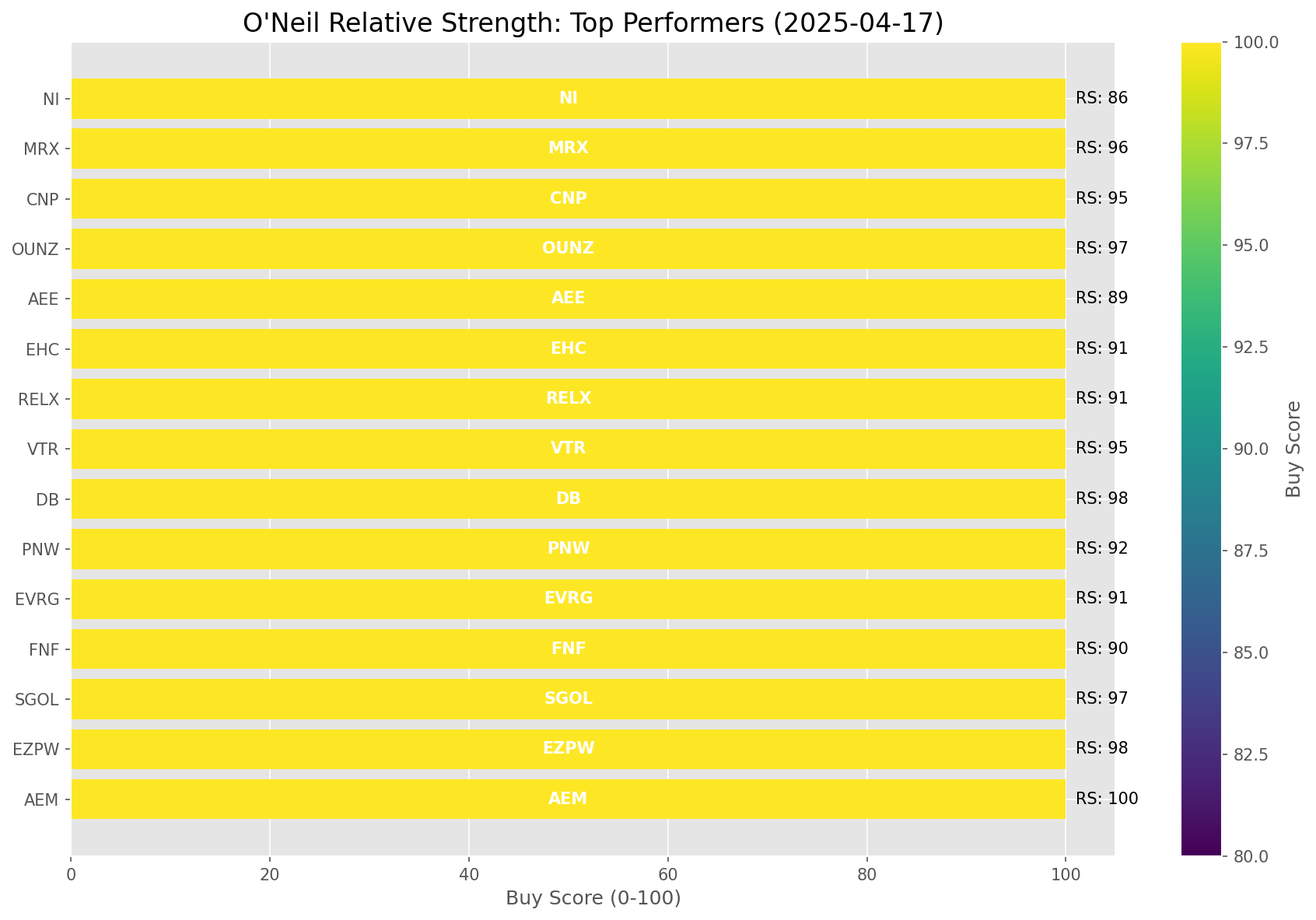
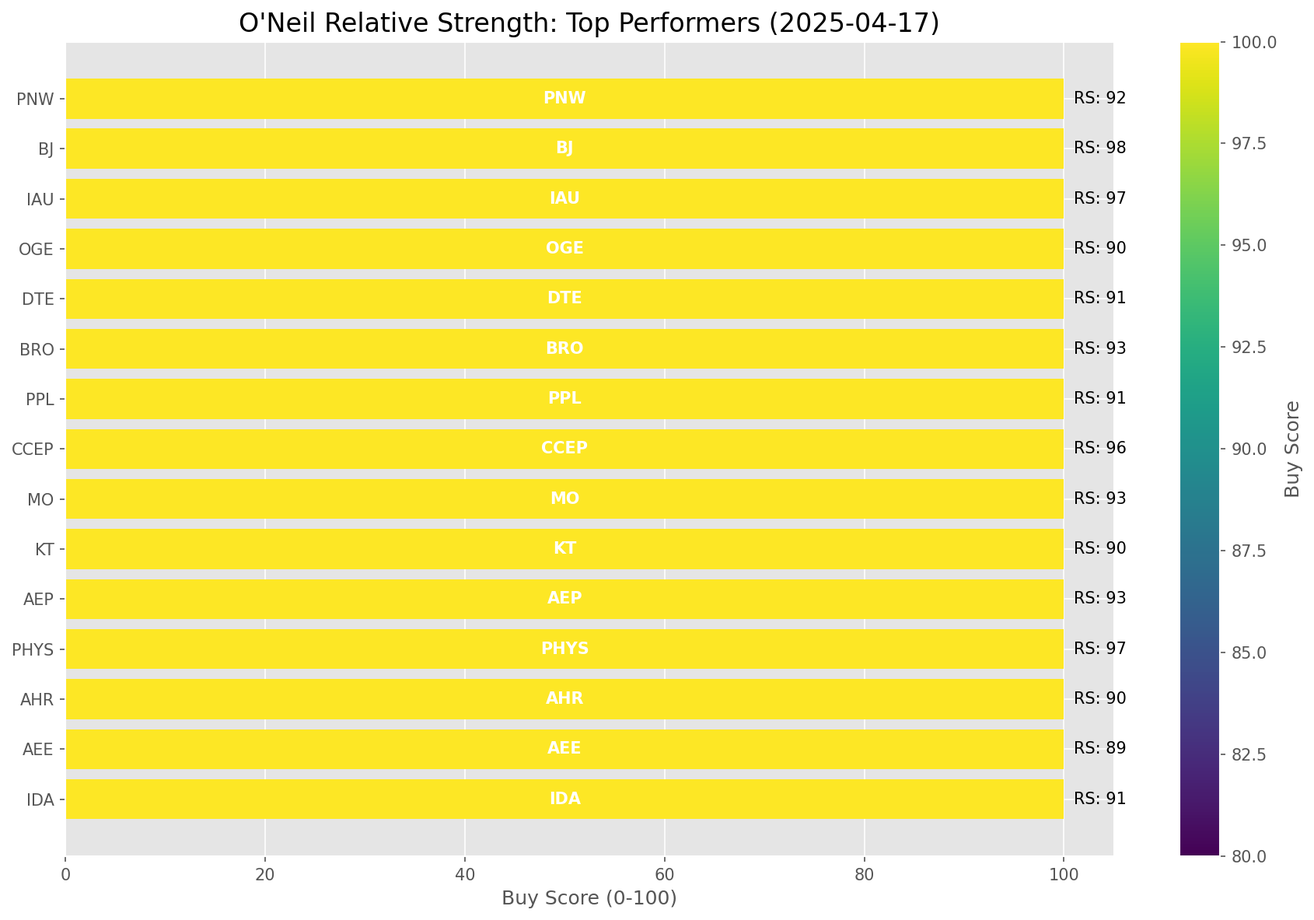
Add market report for 2025-04-17

diff --git a/oneil_relative_strength_report_2025-04-17.md b/oneil_relative_strength_report_2025-04-17.md
@@ -61,8 +61,8 @@ Based on William O'Neil's Relative Strength Methodology
 | [CIBR](https://www.tradingview.com/chart/?symbol=CIBR) | 61.9 | 64.0 | -4.45% | 10d ✓, 50d ✗, 200d ✗ | ↗ | Cybersecurity |
 | [XLF](https://www.tradingview.com/chart/?symbol=XLF) | 60.4 | 61.0 | -5.72% | 10d ✓, 50d ✗, 200d ✗ | ↗ | Financial |
 | [ICLN](https://www.tradingview.com/chart/?symbol=ICLN) | 59.3 | 79.0 | 1.32% | 10d ✓, 50d ✓, 200d ✗ | ↘ | Clean Energy |
-| [XLC](https://www.tradingview.com/chart/?symbol=XLC) | 58.4 | 57.0 | -7.10% | 10d ✓, 50d ✗, 200d ✗ | ↗ | Communications |
 | [XLI](https://www.tradingview.com/chart/?symbol=XLI) | 58.4 | 57.0 | -7.38% | 10d ✓, 50d ✗, 200d ✗ | ↗ | Industrial |
+| [XLC](https://www.tradingview.com/chart/?symbol=XLC) | 58.4 | 57.0 | -7.10% | 10d ✓, 50d ✗, 200d ✗ | ↗ | Communications |
 | [AIQ](https://www.tradingview.com/chart/?symbol=AIQ) | 51.4 | 43.0 | -13.01% | 10d ✓, 50d ✗, 200d ✗ | ↗ | Artificial Intelligence & Technology |
 | [PAVE](https://www.tradingview.com/chart/?symbol=PAVE) | 50.4 | 41.0 | -13.99% | 10d ✓, 50d ✗, 200d ✗ | ↗ | Infrastructure |
 | [IYT](https://www.tradingview.com/chart/?symbol=IYT) | 48.9 | 38.0 | -15.15% | 10d ✓, 50d ✗, 200d ✗ | ↗ | Transportation |
@@ -70,8 +70,8 @@ Based on William O'Neil's Relative Strength Methodology
 | [ARKF](https://www.tradingview.com/chart/?symbol=ARKF) | 48.4 | 37.0 | -15.58% | 10d ✓, 50d ✗, 200d ✗ | ↗ | Fintech Innovation |
 | [UUP](https://www.tradingview.com/chart/?symbol=UUP) | 48.0 | 56.0 | -7.80% | 10d ✗, 50d ✗, 200d ✗ | ↗ | U.S. Dollar |
 | [BLOK](https://www.tradingview.com/chart/?symbol=BLOK) | 42.9 | 26.0 | -20.90% | 10d ✓, 50d ✗, 200d ✗ | ↗ | Blockchain & Cryptocurrency |
-| [DBC](https://www.tradingview.com/chart/?symbol=DBC) | 40.4 | 61.0 | -5.73% | 10d ✓, 50d ✗, 200d ✗ | ↘ | Commodities |
 | [ARKK](https://www.tradingview.com/chart/?symbol=ARKK) | 40.4 | 21.0 | -23.10% | 10d ✓, 50d ✗, 200d ✗ | ↗ | Innovation |
+| [DBC](https://www.tradingview.com/chart/?symbol=DBC) | 40.4 | 61.0 | -5.73% | 10d ✓, 50d ✗, 200d ✗ | ↘ | Commodities |
 | [TLT](https://www.tradingview.com/chart/?symbol=TLT) | 38.5 | 77.0 | 0.89% | 10d ✗, 50d ✗, 200d ✗ | ↘ | Long-term Treasuries |
 | [XLB](https://www.tradingview.com/chart/?symbol=XLB) | 38.4 | 57.0 | -7.23% | 10d ✓, 50d ✗, 200d ✗ | ↘ | Materials |
 | [JETS](https://www.tradingview.com/chart/?symbol=JETS) | 37.4 | 15.0 | -27.47% | 10d ✓, 50d ✗, 200d ✗ | ↗ | Airlines |
@@ -112,74 +112,74 @@ The following 93 stocks show exceptional relative strength:
 |-----------|-----------|---------------|-------|------|--------|
 | 100 | 100 | $121.53 | [Chart](https://www.tradingview.com/chart/?symbol=AEM) | Agnico Eagle Mines Ltd. | AEM |
 | 100 | 100 | $143.14 | [Chart](https://www.tradingview.com/chart/?symbol=UGL) | ProShares Ultra Gold | UGL |
-| 100 | 100 | $29.58 | [Chart](https://www.tradingview.com/chart/?symbol=AGI) | Alamos Gold Inc. Class A Common Shares | AGI |
 | 100 | 100 | $84.01 | [Chart](https://www.tradingview.com/chart/?symbol=WPM) | Wheaton Precious Metals Corp. Common Stock | WPM |
+| 100 | 100 | $29.58 | [Chart](https://www.tradingview.com/chart/?symbol=AGI) | Alamos Gold Inc. Class A Common Shares | AGI |
+| 99 | 100 | $18.49 | [Chart](https://www.tradingview.com/chart/?symbol=SWI) | SolarWinds Corporation Common Stock | SWI |
 | 99 | 100 | $184.90 | [Chart](https://www.tradingview.com/chart/?symbol=RGLD) | Royal Gold Inc | RGLD |
 | 99 | 100 | $163.21 | [Chart](https://www.tradingview.com/chart/?symbol=PM) | Philip Morris International Inc. | PM |
-| 99 | 100 | $149.79 | [Chart](https://www.tradingview.com/chart/?symbol=PLMR) | Palomar Holdings, Inc. Common stock | PLMR |
-| 99 | 100 | $18.49 | [Chart](https://www.tradingview.com/chart/?symbol=SWI) | SolarWinds Corporation Common Stock | SWI |
 | 99 | 100 | $93.78 | [Chart](https://www.tradingview.com/chart/?symbol=PLTR) | Palantir Technologies Inc. Class A Common Stock | PLTR |
-| 98 | 100 | $15.93 | [Chart](https://www.tradingview.com/chart/?symbol=EZPW) | Ezcorp Inc | EZPW |
-| 98 | 100 | $23.47 | [Chart](https://www.tradingview.com/chart/?symbol=DB) | Deutsche Bank Aktiengesellschaft | DB |
+| 99 | 100 | $149.79 | [Chart](https://www.tradingview.com/chart/?symbol=PLMR) | Palomar Holdings, Inc. Common stock | PLMR |
 | 98 | 100 | $118.45 | [Chart](https://www.tradingview.com/chart/?symbol=BJ) | BJs Wholesale Club Holdings, Inc. Common Stock | BJ |
-| 98 | 100 | $26.35 | [Chart](https://www.tradingview.com/chart/?symbol=MP) | MP Materials Corp. | MP |
+| 98 | 100 | $23.47 | [Chart](https://www.tradingview.com/chart/?symbol=DB) | Deutsche Bank Aktiengesellschaft | DB |
+| 98 | 100 | $47.26 | [Chart](https://www.tradingview.com/chart/?symbol=EXC) | Exelon Corporation | EXC |
 | 98 | 100 | $23.33 | [Chart](https://www.tradingview.com/chart/?symbol=OR) | Osisko Gold Royalties Ltd | OR |
 | 98 | 100 | $31.31 | [Chart](https://www.tradingview.com/chart/?symbol=LTH) | Life Time Group Holdings, Inc. | LTH |
-| 98 | 100 | $47.26 | [Chart](https://www.tradingview.com/chart/?symbol=EXC) | Exelon Corporation | EXC |
-| 97 | 100 | $31.68 | [Chart](https://www.tradingview.com/chart/?symbol=SGOL) | abrdn Physical Gold Shares ETF | SGOL |
-| 97 | 100 | $32.01 | [Chart](https://www.tradingview.com/chart/?symbol=OUNZ) | VanEck Merk Gold ETF | OUNZ |
-| 97 | 100 | $262.04 | [Chart](https://www.tradingview.com/chart/?symbol=TMUS) | T-Mobile US, Inc. | TMUS |
-| 97 | 100 | $71.22 | [Chart](https://www.tradingview.com/chart/?symbol=KR) | The Kroger Co. | KR |
+| 98 | 100 | $15.93 | [Chart](https://www.tradingview.com/chart/?symbol=EZPW) | Ezcorp Inc | EZPW |
+| 98 | 100 | $26.35 | [Chart](https://www.tradingview.com/chart/?symbol=MP) | MP Materials Corp. | MP |
 | 97 | 100 | $25.51 | [Chart](https://www.tradingview.com/chart/?symbol=PHYS) | Sprott Physical Gold Trust | PHYS |
 | 97 | 100 | $62.63 | [Chart](https://www.tradingview.com/chart/?symbol=IAU) | iShares Gold Trust | IAU |
-| 97 | 100 | $306.12 | [Chart](https://www.tradingview.com/chart/?symbol=GLD) | SPDR Gold Trust, SPDR Gold Shares | GLD |
-| 97 | 100 | $33.13 | [Chart](https://www.tradingview.com/chart/?symbol=IAUM) | iShares Gold Trust Micro | IAUM |
+| 97 | 100 | $262.04 | [Chart](https://www.tradingview.com/chart/?symbol=TMUS) | T-Mobile US, Inc. | TMUS |
 | 97 | 100 | $27.15 | [Chart](https://www.tradingview.com/chart/?symbol=T) | AT&T Inc. | T |
-| 96 | 100 | $38.61 | [Chart](https://www.tradingview.com/chart/?symbol=MRX) | Marex Group plc Ordinary Shares | MRX |
-| 96 | 100 | $28.54 | [Chart](https://www.tradingview.com/chart/?symbol=EUFN) | iShares MSCI Europe Financials ETF | EUFN |
-| 96 | 100 | $54.02 | [Chart](https://www.tradingview.com/chart/?symbol=PPC) | Pilgrims Pride Corporation | PPC |
+| 97 | 100 | $306.12 | [Chart](https://www.tradingview.com/chart/?symbol=GLD) | SPDR Gold Trust, SPDR Gold Shares | GLD |
+| 97 | 100 | $31.68 | [Chart](https://www.tradingview.com/chart/?symbol=SGOL) | abrdn Physical Gold Shares ETF | SGOL |
+| 97 | 100 | $32.01 | [Chart](https://www.tradingview.com/chart/?symbol=OUNZ) | VanEck Merk Gold ETF | OUNZ |
+| 97 | 100 | $33.13 | [Chart](https://www.tradingview.com/chart/?symbol=IAUM) | iShares Gold Trust Micro | IAUM |
+| 97 | 100 | $71.22 | [Chart](https://www.tradingview.com/chart/?symbol=KR) | The Kroger Co. | KR |
+| 96 | 100 | $89.31 | [Chart](https://www.tradingview.com/chart/?symbol=CCEP) | Coca-Cola Europacific Partners plc Ordinary Shares | CCEP |
+| 96 | 100 | $42.37 | [Chart](https://www.tradingview.com/chart/?symbol=BTI) | British American Tobacco p.l.c. American Depositary Shares, American Depositary Shares, each representing one Ordinary Share | BTI |
 | 96 | 100 | $212.77 | [Chart](https://www.tradingview.com/chart/?symbol=TTWO) | Take-Two Interactive Software Inc | TTWO |
 | 96 | 100 | $78.95 | [Chart](https://www.tradingview.com/chart/?symbol=NFG) | National Fuel Gas Co. | NFG |
-| 96 | 100 | $89.31 | [Chart](https://www.tradingview.com/chart/?symbol=CCEP) | Coca-Cola Europacific Partners plc Ordinary Shares | CCEP |
+| 96 | 100 | $54.02 | [Chart](https://www.tradingview.com/chart/?symbol=PPC) | Pilgrims Pride Corporation | PPC |
 | 96 | 100 | $460.07 | [Chart](https://www.tradingview.com/chart/?symbol=CASY) | Casey's General Stores Inc | CASY |
-| 96 | 100 | $130.98 | [Chart](https://www.tradingview.com/chart/?symbol=ABT) | Abbott Laboratories | ABT |
+| 96 | 100 | $28.54 | [Chart](https://www.tradingview.com/chart/?symbol=EUFN) | iShares MSCI Europe Financials ETF | EUFN |
 | 96 | 100 | $44.97 | [Chart](https://www.tradingview.com/chart/?symbol=GH) | Guardant Health, Inc. Common Stock | GH |
-| 96 | 100 | $42.37 | [Chart](https://www.tradingview.com/chart/?symbol=BTI) | British American Tobacco p.l.c. American Depositary Shares, American Depositary Shares, each representing one Ordinary Share | BTI |
+| 96 | 100 | $130.98 | [Chart](https://www.tradingview.com/chart/?symbol=ABT) | Abbott Laboratories | ABT |
 | 96 | 100 | $23.96 | [Chart](https://www.tradingview.com/chart/?symbol=SRAD) | Sportradar Group AG Class A Ordinary Shares | SRAD |
-| 95 | 100 | $67.93 | [Chart](https://www.tradingview.com/chart/?symbol=VTR) | Ventas, Inc. | VTR |
-| 95 | 100 | $37.16 | [Chart](https://www.tradingview.com/chart/?symbol=CNP) | CenterPoint Energy, Inc. | CNP |
+| 96 | 100 | $38.61 | [Chart](https://www.tradingview.com/chart/?symbol=MRX) | Marex Group plc Ordinary Shares | MRX |
 | 95 | 100 | $29.35 | [Chart](https://www.tradingview.com/chart/?symbol=CEF) | Sprott Physical Gold and Silver Trust | CEF |
-| 95 | 100 | $243.28 | [Chart](https://www.tradingview.com/chart/?symbol=RSG) | Republic Services Inc. | RSG |
+| 95 | 100 | $67.93 | [Chart](https://www.tradingview.com/chart/?symbol=VTR) | Ventas, Inc. | VTR |
 | 95 | 100 | $24.01 | [Chart](https://www.tradingview.com/chart/?symbol=SONY) | Sony Group Corporation American Depositary Shares (Each Representing One Share of Dollar Validated Common Stock) | SONY |
+| 95 | 100 | $243.28 | [Chart](https://www.tradingview.com/chart/?symbol=RSG) | Republic Services Inc. | RSG |
+| 95 | 100 | $37.16 | [Chart](https://www.tradingview.com/chart/?symbol=CNP) | CenterPoint Energy, Inc. | CNP |
 | 94 | 100 | $111.95 | [Chart](https://www.tradingview.com/chart/?symbol=OLLI) | Ollie's Bargain Outlet Holdings, Inc. Common Stock | OLLI |
-| 94 | 100 | $19.58 | [Chart](https://www.tradingview.com/chart/?symbol=GRND) | Grindr Inc. | GRND |
-| 94 | 100 | $973.03 | [Chart](https://www.tradingview.com/chart/?symbol=NFLX) | NetFlix Inc | NFLX |
-| 94 | 100 | $80.29 | [Chart](https://www.tradingview.com/chart/?symbol=SNEX) | StoneX Group Inc. Common Stock | SNEX |
 | 94 | 100 | $262.53 | [Chart](https://www.tradingview.com/chart/?symbol=CME) | CME Group Inc. | CME |
+| 94 | 100 | $80.29 | [Chart](https://www.tradingview.com/chart/?symbol=SNEX) | StoneX Group Inc. Common Stock | SNEX |
+| 94 | 100 | $973.03 | [Chart](https://www.tradingview.com/chart/?symbol=NFLX) | NetFlix Inc | NFLX |
 | 94 | 100 | $77.60 | [Chart](https://www.tradingview.com/chart/?symbol=SR) | Spire Inc. | SR |
+| 94 | 100 | $19.58 | [Chart](https://www.tradingview.com/chart/?symbol=GRND) | Grindr Inc. | GRND |
+| 93 | 100 | $107.71 | [Chart](https://www.tradingview.com/chart/?symbol=AEP) | American Electric Power Company, Inc. | AEP |
+| 93 | 100 | $58.16 | [Chart](https://www.tradingview.com/chart/?symbol=MO) | Altria Group, Inc. | MO |
 | 93 | 100 | $117.22 | [Chart](https://www.tradingview.com/chart/?symbol=BRO) | Brown & Brown, Inc. | BRO |
 | 93 | 100 | $37.40 | [Chart](https://www.tradingview.com/chart/?symbol=EWG) | iShares MSCI Germany ETF | EWG |
-| 93 | 100 | $107.71 | [Chart](https://www.tradingview.com/chart/?symbol=AEP) | American Electric Power Company, Inc. | AEP |
 | 93 | 100 | $518.21 | [Chart](https://www.tradingview.com/chart/?symbol=BRK.B) | BERKSHIRE HATHAWAY Class B | BRK.B |
-| 93 | 100 | $58.16 | [Chart](https://www.tradingview.com/chart/?symbol=MO) | Altria Group, Inc. | MO |
 | 92 | 100 | $94.45 | [Chart](https://www.tradingview.com/chart/?symbol=PNW) | Pinnacle West Capital Corporation | PNW |
+| 92 | 100 | $79.05 | [Chart](https://www.tradingview.com/chart/?symbol=ADC) | Agree Realty Corporation | ADC |
+| 92 | 100 | $16.70 | [Chart](https://www.tradingview.com/chart/?symbol=SPNT) | SiriusPoint Ltd. | SPNT |
 | 92 | 100 | $157.54 | [Chart](https://www.tradingview.com/chart/?symbol=ATO) | Atmos Energy Corporation | ATO |
 | 92 | 100 | $197.37 | [Chart](https://www.tradingview.com/chart/?symbol=WCN) | Waste Connections, Inc. | WCN |
-| 92 | 100 | $16.70 | [Chart](https://www.tradingview.com/chart/?symbol=SPNT) | SiriusPoint Ltd. | SPNT |
-| 92 | 100 | $79.05 | [Chart](https://www.tradingview.com/chart/?symbol=ADC) | Agree Realty Corporation | ADC |
-| 91 | 100 | $68.37 | [Chart](https://www.tradingview.com/chart/?symbol=EVRG) | Evergy, Inc. | EVRG |
-| 91 | 100 | $52.20 | [Chart](https://www.tradingview.com/chart/?symbol=RELX) | RELX PLC | RELX |
-| 91 | 100 | $103.35 | [Chart](https://www.tradingview.com/chart/?symbol=EHC) | Encompass Health Corporation Common Stock | EHC |
-| 91 | 100 | $47.96 | [Chart](https://www.tradingview.com/chart/?symbol=MRCY) | Mercury Systems Inc. | MRCY |
-| 91 | 100 | $133.55 | [Chart](https://www.tradingview.com/chart/?symbol=DTE) | DTE Energy Company | DTE |
 | 91 | 100 | $119.29 | [Chart](https://www.tradingview.com/chart/?symbol=IDA) | IDACORP, Inc. | IDA |
 | 91 | 100 | $35.72 | [Chart](https://www.tradingview.com/chart/?symbol=PPL) | PPL Corporation | PPL |
-| 90 | 100 | $61.81 | [Chart](https://www.tradingview.com/chart/?symbol=FNF) | Fidelity National Financial, Inc. | FNF |
-| 90 | 100 | $72.91 | [Chart](https://www.tradingview.com/chart/?symbol=CMS) | CMS Energy Corporation | CMS |
-| 90 | 100 | $77.49 | [Chart](https://www.tradingview.com/chart/?symbol=OGS) | ONE GAS, INC. | OGS |
-| 90 | 100 | $45.10 | [Chart](https://www.tradingview.com/chart/?symbol=OGE) | OGE Energy Corp. | OGE |
-| 90 | 100 | $18.01 | [Chart](https://www.tradingview.com/chart/?symbol=KT) | KT Corp. | KT |
+| 91 | 100 | $133.55 | [Chart](https://www.tradingview.com/chart/?symbol=DTE) | DTE Energy Company | DTE |
+| 91 | 100 | $103.35 | [Chart](https://www.tradingview.com/chart/?symbol=EHC) | Encompass Health Corporation Common Stock | EHC |
+| 91 | 100 | $52.20 | [Chart](https://www.tradingview.com/chart/?symbol=RELX) | RELX PLC | RELX |
+| 91 | 100 | $68.37 | [Chart](https://www.tradingview.com/chart/?symbol=EVRG) | Evergy, Inc. | EVRG |
+| 91 | 100 | $47.96 | [Chart](https://www.tradingview.com/chart/?symbol=MRCY) | Mercury Systems Inc. | MRCY |
 | 90 | 100 | $30.61 | [Chart](https://www.tradingview.com/chart/?symbol=AHR) | American Healthcare REIT, Inc. | AHR |
+| 90 | 100 | $18.01 | [Chart](https://www.tradingview.com/chart/?symbol=KT) | KT Corp. | KT |
+| 90 | 100 | $45.10 | [Chart](https://www.tradingview.com/chart/?symbol=OGE) | OGE Energy Corp. | OGE |
+| 90 | 100 | $72.91 | [Chart](https://www.tradingview.com/chart/?symbol=CMS) | CMS Energy Corporation | CMS |
+| 90 | 100 | $61.81 | [Chart](https://www.tradingview.com/chart/?symbol=FNF) | Fidelity National Financial, Inc. | FNF |
+| 90 | 100 | $77.49 | [Chart](https://www.tradingview.com/chart/?symbol=OGS) | ONE GAS, INC. | OGS |
 | 89 | 100 | $98.65 | [Chart](https://www.tradingview.com/chart/?symbol=AEE) | Ameren Corporation | AEE |
 | 89 | 100 | $106.04 | [Chart](https://www.tradingview.com/chart/?symbol=ATGE) | Adtalem Global Education Inc. Common Shares | ATGE |
 | 89 | 100 | $55.68 | [Chart](https://www.tradingview.com/chart/?symbol=ULS) | UL Solutions Inc. | ULS |
@@ -188,12 +188,12 @@ The following 93 stocks show exceptional relative strength:
 | 86 | 100 | $39.29 | [Chart](https://www.tradingview.com/chart/?symbol=NI) | NiSource Inc. | NI |
 | 90 | 99 | $81.58 | [Chart](https://www.tradingview.com/chart/?symbol=FAST) | Fastenal Co | FAST |
 | 87 | 98 | $255.86 | [Chart](https://www.tradingview.com/chart/?symbol=TRV) | The Travelers Companies, Inc. | TRV |
-| 86 | 98 | $17.18 | [Chart](https://www.tradingview.com/chart/?symbol=AM) | Antero Midstream Corporation Common Stock | AM |
 | 86 | 98 | $277.35 | [Chart](https://www.tradingview.com/chart/?symbol=PEN) | Penumbra, Inc. | PEN |
+| 86 | 98 | $17.18 | [Chart](https://www.tradingview.com/chart/?symbol=AM) | Antero Midstream Corporation Common Stock | AM |
 | 87 | 97 | $49.74 | [Chart](https://www.tradingview.com/chart/?symbol=NJR) | New Jersey Resources Corp | NJR |
 | 87 | 97 | $127.62 | [Chart](https://www.tradingview.com/chart/?symbol=TJX) | TJX Companies, Inc. (The) | TJX |
-| 85 | 96 | $49.42 | [Chart](https://www.tradingview.com/chart/?symbol=TRP) | TC Energy Corporation | TRP |
 | 85 | 96 | $118.30 | [Chart](https://www.tradingview.com/chart/?symbol=CWST) | Casella Waste Systems Inc | CWST |
+| 85 | 96 | $49.42 | [Chart](https://www.tradingview.com/chart/?symbol=TRP) | TC Energy Corporation | TRP |
 | 83 | 95 | $36.46 | [Chart](https://www.tradingview.com/chart/?symbol=DRS) | Leonardo DRS, Inc. Common Stock | DRS |
 | 85 | 94 | $123.85 | [Chart](https://www.tradingview.com/chart/?symbol=BECN) | Beacon Roofing Supply, Inc. | BECN |
 | 83 | 93 | $55.43 | [Chart](https://www.tradingview.com/chart/?symbol=IGF) | iShares Global Infrastructure ETF | IGF |
@@ -209,7 +209,7 @@ The following 93 stocks show exceptional relative strength:
 
 ## **Sell Recommendations**
 
-The following 162 stocks show deteriorating relative strength:
+The following 161 stocks show deteriorating relative strength:
 
 | RS Rating | Sell Score | Current Price | Chart | Name | Ticker |
 |-----------|------------|---------------|-------|------|--------|
@@ -218,22 +218,22 @@ The following 162 stocks show deteriorating relative strength:
 | 2 | 100 | $15.31 | [Chart](https://www.tradingview.com/chart/?symbol=SSTK) | SHUTTERSTOCK, INC. | SSTK |
 | 2 | 100 | $16.86 | [Chart](https://www.tradingview.com/chart/?symbol=TNDM) | Tandem Diabetes Care, Inc. | TNDM |
 | 3 | 100 | $17.10 | [Chart](https://www.tradingview.com/chart/?symbol=DAVA) | Endava plc American Depositary Shares (each representing one Class A Ordinary Share) | DAVA |
-| 3 | 100 | $22.04 | [Chart](https://www.tradingview.com/chart/?symbol=DJT) | Trump Media & Technology Group Corp. Common Stock | DJT |
 | 3 | 100 | $10.40 | [Chart](https://www.tradingview.com/chart/?symbol=BCYC) | Bicycle Therapeutics plc American Depositary Shares | BCYC |
+| 3 | 100 | $22.04 | [Chart](https://www.tradingview.com/chart/?symbol=DJT) | Trump Media & Technology Group Corp. Common Stock | DJT |
 | 4 | 100 | $47.00 | [Chart](https://www.tradingview.com/chart/?symbol=LABU) | Direxion Daily S&P Biotech Bull 3X Shares | LABU |
 | 5 | 100 | $60.99 | [Chart](https://www.tradingview.com/chart/?symbol=ARCB) | ArcBest Corporation | ARCB |
-| 5 | 100 | $25.19 | [Chart](https://www.tradingview.com/chart/?symbol=FORM) | FormFactor Inc. | FORM |
 | 5 | 100 | $22.32 | [Chart](https://www.tradingview.com/chart/?symbol=FIVN) | FIVE9, INC. | FIVN |
-| 6 | 100 | $20.58 | [Chart](https://www.tradingview.com/chart/?symbol=HI) | Hillenbrand, Inc. | HI |
-| 6 | 100 | $25.84 | [Chart](https://www.tradingview.com/chart/?symbol=XPEL) | XPEL, Inc. Common Stock | XPEL |
+| 5 | 100 | $25.19 | [Chart](https://www.tradingview.com/chart/?symbol=FORM) | FormFactor Inc. | FORM |
 | 6 | 100 | $55.98 | [Chart](https://www.tradingview.com/chart/?symbol=SWKS) | Skyworks Solutions Inc | SWKS |
-| 6 | 100 | $56.28 | [Chart](https://www.tradingview.com/chart/?symbol=LGIH) | LGI Homes, Inc. | LGIH |
+| 6 | 100 | $26.61 | [Chart](https://www.tradingview.com/chart/?symbol=W) | Wayfair Inc. | W |
+| 6 | 100 | $25.84 | [Chart](https://www.tradingview.com/chart/?symbol=XPEL) | XPEL, Inc. Common Stock | XPEL |
+| 6 | 100 | $20.58 | [Chart](https://www.tradingview.com/chart/?symbol=HI) | Hillenbrand, Inc. | HI |
 | 6 | 100 | $19.36 | [Chart](https://www.tradingview.com/chart/?symbol=CECO) | Ceco Environmental Corp | CECO |
 | 6 | 100 | $10.53 | [Chart](https://www.tradingview.com/chart/?symbol=ARCT) | Arcturus Therapeutics Holdings Inc. Common Stock | ARCT |
-| 6 | 100 | $26.61 | [Chart](https://www.tradingview.com/chart/?symbol=W) | Wayfair Inc. | W |
-| 7 | 100 | $44.78 | [Chart](https://www.tradingview.com/chart/?symbol=ACLS) | Axcelis Technologies Inc | ACLS |
-| 7 | 100 | $21.69 | [Chart](https://www.tradingview.com/chart/?symbol=NSSC) | Napco Security Technologies, Inc | NSSC |
+| 6 | 100 | $56.28 | [Chart](https://www.tradingview.com/chart/?symbol=LGIH) | LGI Homes, Inc. | LGIH |
 | 7 | 100 | $19.64 | [Chart](https://www.tradingview.com/chart/?symbol=SPT) | Sprout Social, Inc Class A Common Stock | SPT |
+| 7 | 100 | $21.69 | [Chart](https://www.tradingview.com/chart/?symbol=NSSC) | Napco Security Technologies, Inc | NSSC |
+| 7 | 100 | $44.78 | [Chart](https://www.tradingview.com/chart/?symbol=ACLS) | Axcelis Technologies Inc | ACLS |
 | 7 | 100 | $18.20 | [Chart](https://www.tradingview.com/chart/?symbol=APLS) | Apellis Pharmaceuticals, Inc. Common Stock | APLS |
 | 8 | 100 | $12.73 | [Chart](https://www.tradingview.com/chart/?symbol=GCT) | GigaCloud Technology Inc Class A Ordinary Shares | GCT |
 | 9 | 100 | $18.59 | [Chart](https://www.tradingview.com/chart/?symbol=BZH) | Beazer Homes USA, Inc. New | BZH |
@@ -257,11 +257,11 @@ The following 162 stocks show deteriorating relative strength:
 | 12 | 96 | $10.39 | [Chart](https://www.tradingview.com/chart/?symbol=TXG) | 10x Genomics, Inc. Class A Common Stock | TXG |
 | 13 | 96 | $22.13 | [Chart](https://www.tradingview.com/chart/?symbol=UCO) | ProShares Ultra Bloomberg Crude Oil | UCO |
 | 14 | 96 | $10.31 | [Chart](https://www.tradingview.com/chart/?symbol=VREX) | Varex Imaging Corporation Common Stock | VREX |
-| 16 | 96 | $87.50 | [Chart](https://www.tradingview.com/chart/?symbol=AMD) | Advanced Micro Devices | AMD |
 | 16 | 96 | $14.64 | [Chart](https://www.tradingview.com/chart/?symbol=PBW) | Invesco WilderHill Clean Energy ETF | PBW |
+| 16 | 96 | $87.50 | [Chart](https://www.tradingview.com/chart/?symbol=AMD) | Advanced Micro Devices | AMD |
 | 20 | 96 | $31.68 | [Chart](https://www.tradingview.com/chart/?symbol=URNM) | Sprott Uranium Miners ETF | URNM |
-| 13 | 95 | $58.50 | [Chart](https://www.tradingview.com/chart/?symbol=ATKR) | Atkore Inc. | ATKR |
 | 13 | 95 | $12.66 | [Chart](https://www.tradingview.com/chart/?symbol=MARA) | MARA Holdings, Inc. Common Stock | MARA |
+| 13 | 95 | $58.50 | [Chart](https://www.tradingview.com/chart/?symbol=ATKR) | Atkore Inc. | ATKR |
 | 16 | 95 | $54.47 | [Chart](https://www.tradingview.com/chart/?symbol=EL) | The Estee Lauder Companies Inc. Class A | EL |
 | 20 | 95 | $44.82 | [Chart](https://www.tradingview.com/chart/?symbol=EDU) | New Oriental Education and Technology Group, Inc. American Depositary Shares (each representing ten (10) Common Shares) | EDU |
 | 11 | 94 | $57.21 | [Chart](https://www.tradingview.com/chart/?symbol=SWK) | Stanley Black & Decker, Inc. | SWK |
@@ -274,8 +274,8 @@ The following 162 stocks show deteriorating relative strength:
 | 17 | 93 | $47.97 | [Chart](https://www.tradingview.com/chart/?symbol=ERX) | Direxion Daily Energy Bull 2X Shares | ERX |
 | 20 | 93 | $18.51 | [Chart](https://www.tradingview.com/chart/?symbol=BITO) | ProShares Bitcoin ETF | BITO |
 | 27 | 93 | $14.23 | [Chart](https://www.tradingview.com/chart/?symbol=FXN) | First Trust Energy AlphaDEX Fund | FXN |
-| 10 | 92 | $17.90 | [Chart](https://www.tradingview.com/chart/?symbol=OII) | Oceaneering International Inc. | OII |
 | 10 | 92 | $29.69 | [Chart](https://www.tradingview.com/chart/?symbol=JANX) | Janux Therapeutics, Inc. Common Stock | JANX |
+| 10 | 92 | $17.90 | [Chart](https://www.tradingview.com/chart/?symbol=OII) | Oceaneering International Inc. | OII |
 | 12 | 92 | $14.36 | [Chart](https://www.tradingview.com/chart/?symbol=DXC) | DXC Technology Company | DXC |
 | 12 | 91 | $334.55 | [Chart](https://www.tradingview.com/chart/?symbol=SAIA) | Saia, Inc. | SAIA |
 | 15 | 91 | $10.77 | [Chart](https://www.tradingview.com/chart/?symbol=SONO) | Sonos, Inc. Common Stock | SONO |
@@ -284,8 +284,8 @@ The following 162 stocks show deteriorating relative strength:
 | 20 | 90 | $25.51 | [Chart](https://www.tradingview.com/chart/?symbol=CZR) | Caesars Entertainment, Inc. Common Stock | CZR |
 | 11 | 89 | $10.01 | [Chart](https://www.tradingview.com/chart/?symbol=VYX) | NCR Voyix Corporation | VYX |
 | 13 | 89 | $10.40 | [Chart](https://www.tradingview.com/chart/?symbol=NEOG) | Neogen Corp | NEOG |
-| 16 | 89 | $129.48 | [Chart](https://www.tradingview.com/chart/?symbol=TFX) | Teleflex Incorporated | TFX |
 | 16 | 89 | $53.30 | [Chart](https://www.tradingview.com/chart/?symbol=IPGP) | IPG Photonics Corporation | IPGP |
+| 16 | 89 | $129.48 | [Chart](https://www.tradingview.com/chart/?symbol=TFX) | Teleflex Incorporated | TFX |
 | 19 | 89 | $31.58 | [Chart](https://www.tradingview.com/chart/?symbol=NGVT) | Ingevity Corporation | NGVT |
 | 20 | 89 | $20.41 | [Chart](https://www.tradingview.com/chart/?symbol=SYM) | Symbotic Inc. Class A Common Stock | SYM |
 | 21 | 89 | $39.21 | [Chart](https://www.tradingview.com/chart/?symbol=FEPI) | REX FANG & Innovation Equity Premium Income ETF | FEPI |
@@ -306,7 +306,6 @@ The following 162 stocks show deteriorating relative strength:
 | 22 | 85 | $52.10 | [Chart](https://www.tradingview.com/chart/?symbol=HXL) | Hexcel Corporation | HXL |
 | 25 | 85 | $11.91 | [Chart](https://www.tradingview.com/chart/?symbol=OEC) | Orion S.A. | OEC |
 | 26 | 85 | $27.01 | [Chart](https://www.tradingview.com/chart/?symbol=MBUU) | Malibu Boats, Inc. Class A | MBUU |
-| 27 | 85 | $12.10 | [Chart](https://www.tradingview.com/chart/?symbol=CVE) | Cenovus Energy Inc. | CVE |
 | 27 | 85 | $52.54 | [Chart](https://www.tradingview.com/chart/?symbol=ENPH) | Enphase Energy, Inc. | ENPH |
 | 33 | 85 | $44.15 | [Chart](https://www.tradingview.com/chart/?symbol=ETSY) | Etsy, Inc. | ETSY |
 | 19 | 84 | $27.86 | [Chart](https://www.tradingview.com/chart/?symbol=YETI) | YETI Holdings, Inc. Common Stock | YETI |
@@ -314,9 +313,10 @@ The following 162 stocks show deteriorating relative strength:
 | 20 | 84 | $34.37 | [Chart](https://www.tradingview.com/chart/?symbol=CALF) | Pacer US Small Cap Cash Cows ETF | CALF |
 | 24 | 84 | $12.03 | [Chart](https://www.tradingview.com/chart/?symbol=OSCR) | Oscar Health, Inc. | OSCR |
 | 27 | 84 | $72.04 | [Chart](https://www.tradingview.com/chart/?symbol=IR) | Ingersoll Rand Inc. Common Stock | IR |
+| 27 | 84 | $12.10 | [Chart](https://www.tradingview.com/chart/?symbol=CVE) | Cenovus Energy Inc. | CVE |
 | 28 | 84 | $218.84 | [Chart](https://www.tradingview.com/chart/?symbol=WING) | Wingstop Inc | WING |
-| 17 | 83 | $32.77 | [Chart](https://www.tradingview.com/chart/?symbol=LVS) | Las Vegas Sands Corp. | LVS |
 | 17 | 83 | $52.17 | [Chart](https://www.tradingview.com/chart/?symbol=SMG) | The Scotts Miracle-Gro Company | SMG |
+| 17 | 83 | $32.77 | [Chart](https://www.tradingview.com/chart/?symbol=LVS) | Las Vegas Sands Corp. | LVS |
 | 31 | 83 | $11.21 | [Chart](https://www.tradingview.com/chart/?symbol=NAVI) | Navient Corporation | NAVI |
 | 31 | 82 | $26.45 | [Chart](https://www.tradingview.com/chart/?symbol=BWA) | BorgWarner Inc. | BWA |
 | 32 | 82 | $25.26 | [Chart](https://www.tradingview.com/chart/?symbol=PINS) | Pinterest, Inc. Class A Common Stock | PINS |
@@ -324,8 +324,8 @@ The following 162 stocks show deteriorating relative strength:
 | 23 | 81 | $56.41 | [Chart](https://www.tradingview.com/chart/?symbol=BOIL) | ProShares Ultra Bloomberg Natural Gas | BOIL |
 | 27 | 81 | $45.50 | [Chart](https://www.tradingview.com/chart/?symbol=ATI) | ATI Inc. | ATI |
 | 30 | 81 | $133.35 | [Chart](https://www.tradingview.com/chart/?symbol=NSIT) | Insight Enterprises Inc | NSIT |
-| 31 | 81 | $28.16 | [Chart](https://www.tradingview.com/chart/?symbol=TAN) | Invesco Solar ETF | TAN |
 | 31 | 81 | $10.71 | [Chart](https://www.tradingview.com/chart/?symbol=DBRG) | DigitalBridge Group, Inc. | DBRG |
+| 31 | 81 | $28.16 | [Chart](https://www.tradingview.com/chart/?symbol=TAN) | Invesco Solar ETF | TAN |
 | 29 | 80 | $16.53 | [Chart](https://www.tradingview.com/chart/?symbol=ELVN) | Enliven Therapeutics, Inc. Common Stock | ELVN |
 | 24 | 79 | $59.58 | [Chart](https://www.tradingview.com/chart/?symbol=CCS) | CENTURY COMMUNITIES, INC. | CCS |
 | 27 | 79 | $101.36 | [Chart](https://www.tradingview.com/chart/?symbol=CHDN) | Churchill Downs Inc | CHDN |
@@ -346,7 +346,6 @@ The following 162 stocks show deteriorating relative strength:
 | 26 | 76 | $338.97 | [Chart](https://www.tradingview.com/chart/?symbol=HUBB) | Hubbell Incorporated | HUBB |
 | 34 | 76 | $11.60 | [Chart](https://www.tradingview.com/chart/?symbol=RIVN) | Rivian Automotive, Inc. Class A Common Stock | RIVN |
 | 38 | 76 | $50.51 | [Chart](https://www.tradingview.com/chart/?symbol=KBR) | KBR, Inc. | KBR |
-| 25 | 75 | $102.69 | [Chart](https://www.tradingview.com/chart/?symbol=MHK) | Mohawk Industries, Inc. | MHK |
 | 29 | 75 | $65.13 | [Chart](https://www.tradingview.com/chart/?symbol=MTH) | Meritage Homes Corporation | MTH |
 | 32 | 75 | $114.70 | [Chart](https://www.tradingview.com/chart/?symbol=MYRG) | MYR Group, Inc. | MYRG |
 | 37 | 75 | $23.57 | [Chart](https://www.tradingview.com/chart/?symbol=AMRK) | A-Mark Precious Metals, Inc. | AMRK |
